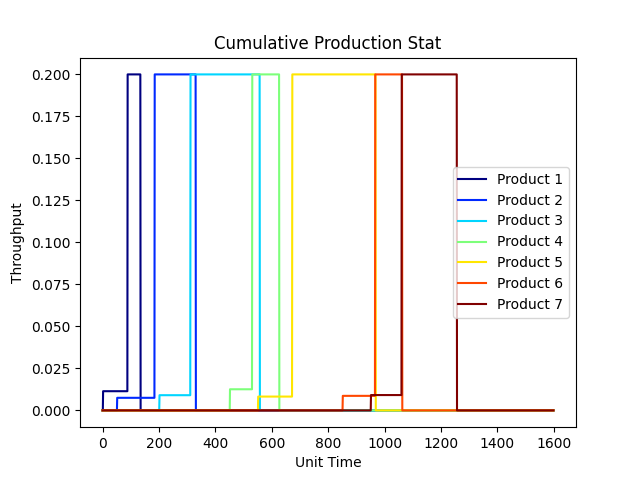
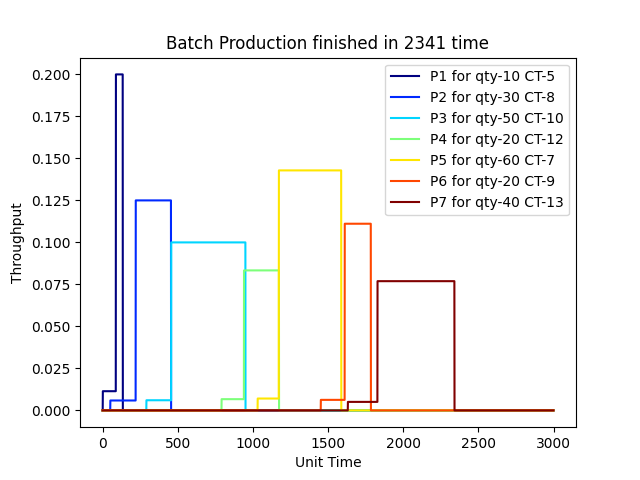
production stat

diff --git a/production_performance.py b/production_performance.py
@@ -8,7 +8,7 @@ from matplotlib import pyplot as plt
 from shapely.geometry import MultiLineString, LineString
 from itertools import combinations
 
-
+Batch_process_times = [5, 8, 10, 12, 7, 9, 13]
 def euclidean_dist(x1, y1, x2, y2):
     dist = math.sqrt(math.pow(x2 - x1, 2) + math.pow(y2 - y1, 2) * 1.0)
     return round(dist)
@@ -25,6 +25,7 @@ def get_cmap(n, name='hsv'):
 
 def plot_throughput(num, prod_1_time, prod_normal_time, qty, num_cross):
     # Loop through each time step.
+    # It is important to simulate each variant before scheduling a total batch
     n_steps = 1000  # number of unit time
     throughput = np.zeros(n_steps)
     loss = 0.0
@@ -118,14 +119,15 @@ def prod_efficiency(Batch_sequence, pos, Qty, len_graph):
         num_crossings.append(0)
     print("no of crossings", num_crossings)
     vel_transport = 2  # speed of the transport robot
-    process_time = 5  ## uniform process time required by workstations
+    #process_time = 5  ## uniform process time required by workstations
 
     PI_arr_pt = []
     PI_arr_thr = []
     PI_arr_1sTime = []
     PI_arr_idealT = []
     throughput = []
-    for i, (seq, gLen, qty, cross) in enumerate(zip(Batch_sequence, len_graph, Qty, num_crossings)):
+    ## Find throughput for individual product variants
+    for i, (seq, gLen, qty, cross,process_time) in enumerate(zip(Batch_sequence, len_graph, Qty, num_crossings,Batch_process_times)):
         num_workstations = len(seq)
         dist_lastedge = euclidean_dist(pos[seq[-2]][0], pos[seq[-2]][1], pos[seq[-1]][0], pos[seq[-1]][1])
         ct_1st_ptime = (num_workstations * process_time) + (
@@ -147,7 +149,7 @@ def prod_efficiency(Batch_sequence, pos, Qty, len_graph):
     print("production ideal time array", PI_arr_idealT)
 
     ### Plot the cumulative graph with coinciding the
-    prod_span = 1600
+    prod_span = 3000
 
     # for i in range(len(cumulative_throughput)):
     #     cumulative_throughput[i] = random.randint(1,35)
@@ -160,27 +162,29 @@ def prod_efficiency(Batch_sequence, pos, Qty, len_graph):
     offset = 1
     for i in range(len(Batch_sequence)):
         cumulative_throughput = np.zeros(prod_span)
-
+        process_time = Batch_process_times
         if i == 0:
             offset += 0
         else:
 
-            coeff_pTime = PI_arr_idealT[i - 1] / process_time
+            coeff_pTime = PI_arr_idealT[i - 1] / process_time[i-1]
             #print("the calculated coeff prodcut", i+1, coeff_pTime)
-            actual_processtime = float(PI_arr_pt[i - 1]) / coeff_pTime
+            #actual_processtime = float(PI_arr_pt[i - 1]) / coeff_pTime
+            actual_processtime = process_time[i-1] ## for tree topology
             print(f"the actual process time of product {i+1} is {coeff_pTime}")
-            offset += round(Qty[i - 1] * process_time) ## for tree topology its is original process time
+            offset += round(Qty[i - 1] * actual_processtime) ## for tree topology its is original process time
             # print(f"Start time of previous product was {PI_arr_pt[i-1]} product and time to produce 1st sample of current product {PI_arr_1sTime[i]}")
+        if i == len(Batch_sequence)-1:
+            finish_time = PI_arr_pt[i] + offset
         print("product with start and stop index", i + 1, offset, PI_arr_pt[i] + offset)
-
         cumulative_throughput[offset:PI_arr_pt[i] + offset] = PI_arr_thr[i]  # [1:PI_arr_pt[i]]
-        plt.plot(prod_steps, cumulative_throughput, color=colors[i], label=f'Product {i + 1}')
+        plt.plot(prod_steps, cumulative_throughput, color=colors[i], label=f'P{i + 1} for qty-{Qty[i]} CT-{process_time[i]}')
         # plt.pause(0.05)
 
     # Naming the x-axis, y-axis and the whole graph
     plt.xlabel("Unit Time")
     plt.ylabel("Throughput")
-    plt.title("Cumulative Production Stat")
+    plt.title(f"Batch Production finished in {finish_time} time")
 
     # Adding legend, which helps us recognize the curve according to it's color
     plt.legend()

diff --git a/main.py b/main.py
@@ -43,6 +43,8 @@ Batch_sequence = [[1, 5, 9, 10, 2, 11, 13, 15, 7, 20],
 
 
 Qty_order = [10, 30, 50, 20, 60, 20, 40]
+#Qty_order = [100,100,100,100,100,100,100]
+#Qty_order = [1, 1, 1, 1, 1, 1, 1]
 
 PI_weight = []
 for i in range(len(Qty_order)):
